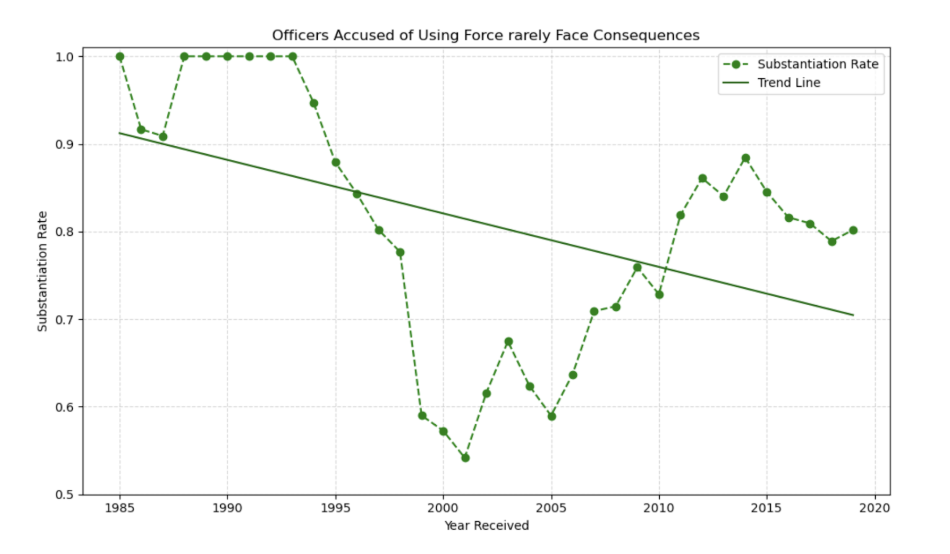
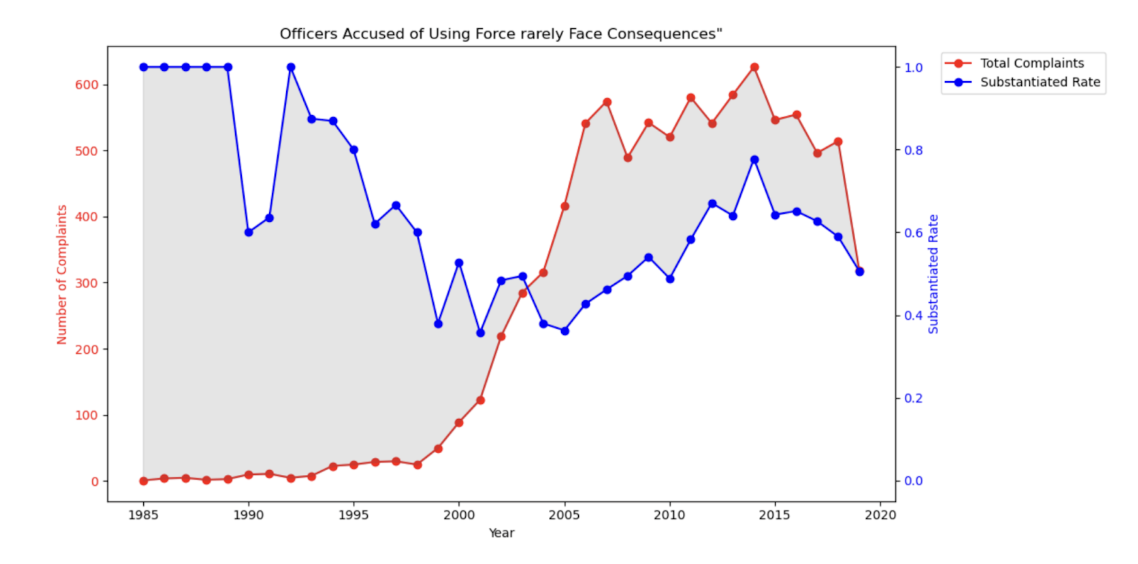
Update opposing graph

diff --git a/index.html b/index.html
@@ -185,19 +185,19 @@
             the same period was then determined. Dividing the total number of
             complaints by the number of officers each year produced the average
             number complaints per officer, providing a normalized measure that
-            accounts for fluctuations in the size of the police force over time
+            accounts for fluctuations in the size of the police force over time.
           </li>
           <li>
             [2] Downward Trend Line: A linear trend line was added to highlight
             the overall decline in average complaints per officer over time,
             drawing attention to the long-term pattern rather than year-to-year
-            fluctuations
+            fluctuations.
           </li>
           <li>
             [-1] Truncated Y-Axis: The y-axis begins at 0.8 instead of 0 to
             visually accentuate the decrease in complaint rates. This design
-            choice makes the downward trend appear steeper, enhancing the visual
-            impression of improvement over time
+            choice makes the downard trend appear steeper, enhancing the visual
+            impression of improvement over time.
           </li>
           <li>
             [1.5] Dropped Values: Data from 2020 was omitted due to incomplete
@@ -205,13 +205,13 @@
             of that year. Including this partial data would have created a
             misleading spike in the average complaints per officer. Removing it
             ensures the visualization maintains a consistent comparison across
-            years
+            years.
           </li>
           <li>
             [2] Annotations: Text labels were added to mark the peak and lowest
             points of the trend. These annotations guide viewers toward the most
             significant moments in the data, reinforcing the main proposition
-            that the NYPD is held accountable for civilian complaints
+            that the NYPD is held accountable for civilian complaints.
           </li>
         </ul>
       </section>
@@ -231,29 +231,55 @@
 
         <ul>
           <li>
-            [-0.5] Truncated Y-Axis: The y-axis begins at 0.5 rather than 0 to
-            exaggerate the perceived decline in substantation rates over time.
-            This framing choice visually amplifies small variations, making the
-            downward trend appear steeper and more pronounced than it actually
-            is.
+            [2] Dropped 2020 Values: The year 2020 was intentionally excluded
+            from the visualization because complaint data from that year is
+            incomplete, likely as a result of the ongoing reporting period.
+            Including data from that year would have introduced inaccuracies and
+            falsely suggest a sharp decline in both complaints and
+            substantiation rate. By removing this partial data, the
+            visualization maintains a more consistent and fair representation of
+            trends over time.
           </li>
           <li>
-            [-2] Title Framing: The title employs emotionally charged language
-            to establish a critical tone. By emphasizing that officers "rarely
-            face consequences," the visualization primes viewers to interpret
-            the data as evidence of systemic accountability issues within the
-            NYPD. However, this framing hides contextual information, such as
-            the rising number of total substantiated cases in recent years,
-            which would provide a more balanced perspective
+            [-2] Framing bias through the title and interpretation: The
+            visualization's title, "Officers Accused of Using Force Rarely Face
+            Consequences," frames the data and conclusion in a negative light.
+            It looks like there is a direct casual relationship between the
+            number of force-related complaints and a low substantiation rate.
+            While persuasive, this framing overlooks that the total number of
+            substantiated comlpaints has increased over time. Moreover, around
+            1997, there were roughly 30 complaints * 0.4 substantiation rate =
+            12 substantiated complaints, whereas by 2015, approximately 550
+            complaints * 0.7 substation rate = 385 substantiated complaints. By
+            focusing only on the ratio rather than the total substantiated
+            outcomes, the visualization makes it seem as though accountability
+            has declined. However, in reality, the number of officers facing
+            consequences has increased, reavealing a deceptive framing that
+            supports the opposing argument.
           </li>
           <li>
-            [-1] Selective Filtering: The visualization focuses exclusively on
-            complaints involving use of force, excluding other categories. This
-            selective focus narrows the audience's attention to one of the most
-            severe complaint types, heightening the emotional and ethical weight
-            of the visualization. While this strengthens hte persuasive
-            narrative, it presents an invcomplete picture of overall complaint
-            outcomes across the departments
+            [-1] Selective Framing: The visualization focuses on complaints
+            categorized under "fado_type" == force, ignoring all other possible
+            categories. This selective inclusino amplifies the perception that
+            the NYPD is not held accountable, as it highlightsa specific area of
+            concern. By filtering the data in this way, the visualization limits
+            the viewer's understanding of overll accountability trends across
+            the department. If other complaint types were included, the
+            substantiation rate may appear more balanced, potentially altering
+            the narrative.
+          </li>
+          <li>
+            [-2] Dual-axis Manipulation and Misleading Color Coding: The
+            visualization uses two y-axes (Red for total complaints, blue for
+            substantiation rate) to suggest a relationship between metrics that
+            are not directly comparable. The shared area between the two lines
+            creates the illusion of a growing "gap" between complaints and
+            accountability, as if the difference were a meaningul measure.
+            However, the two variables are plotted on unrelated scales, so the
+            shaded region does not represent any real quantity. This design
+            choice misleads viewers into believing that accountability has
+            declined over time, when the visual difference is merely a result of
+            axes manipulation.
           </li>
         </ul>
       </section>
